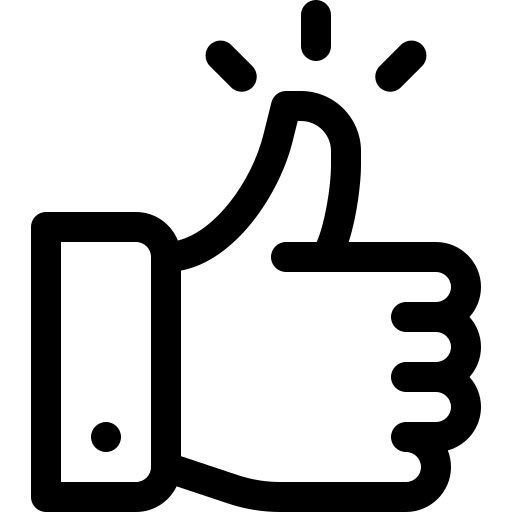
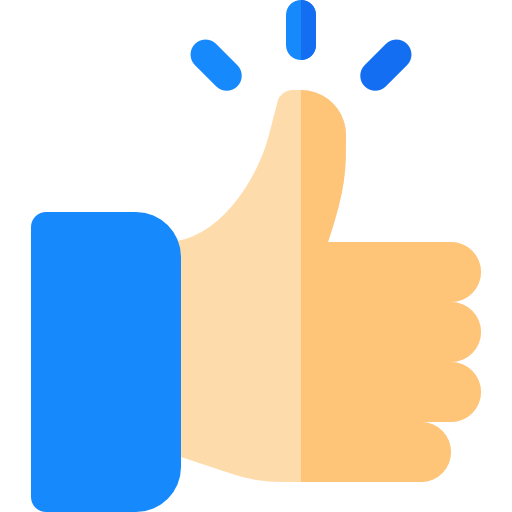
restyled like_comment page

diff --git a/simple_voting/templates/like_comment.html b/simple_voting/templates/like_comment.html
@@ -1,37 +1,48 @@
 {% extends 'base.html' %}
+{% load static %}
 {% block title %}
 <title>Comment </title>
 {% endblock %}
 {% block content %}
+
 <main>
-    <div class="row">
+    <div class="row text-center" style="margin: auto">
         <div class="col-6 text-center">
             {% if like_form %}
-            <form action="/like_comment/" method="post">
-                {% csrf_token %}
-                <div class="row  mt-3 text-middle">
-                    <div class="col-12">
-                        <h1>Comment this:</h1>
-                    </div>
-                    <div class="col-12 mt-3 w-50 h-50 pl-5 pr-5">
-                        {{ comment_form.comment }}
-                    </div>
+            <div class="card jumbotron mt-3 mb-3 border-success" style="width: 95%; margin: auto; border-radius: 8px">
+                <div class="card-body">
+                    <h2 class="card-title text-center">Comment this:</h2>
+                    <hr>
+                    <form action="/like_comment/" method="post">
+                        {% csrf_token %}
+                        <div class="row mt-3 text-middle">
+                            <div class="col-12">
+                                {{ comment_form.comment }}
+                            </div>
+                        </div>
+                        <div class="row mt-3" style="margin: auto; ">
+                            <div class="col-6 mt-3">
+                                <input type="submit" class="btn btn-outline-success btn-md btn-block" name="status" value="Send"
+                                       />
+                            </div>
+                            <div class="col-6 text-right" style="margin: auto">
+                                <form action="/like_comment/" method="post" id="liking_form">
+                                    {% csrf_token %}
+                                    {% if liked %}
+                                    <button type="submit" name="like" value="liked" id="like_btn" style="background: none; border: none">
+                                        <img src="{% static 'img/liked.png'%}" width="50" height="50px" id="like_img"/>
+                                    </button>
+                                    {% else %}
+                                    <button type="submit" name="like" value="not_liked" id="like_btn" style="background: none; border: none">
+                                        <img src="{% static 'img/not_liked.png'%}" width="50" height="50px" id="like_img"/>
+                                    </button>
+                                    {% endif %}
+                                </form>
+                            </div>
+                        </div>
+                    </form>
                 </div>
-
-
-                <div class="row mt-3 ">
-                    <div class="col-6  mt-1">
-                        {{like_form.like.label}}
-                        {{like_form.like}}
-                    </div>
-
-
-                    <div class="col-6">
-                        <input type="submit" class="btn btn-outline-success btn-md" name="status" value="Send"
-                               style="width: 100px; border-radius: 16px"/>
-                    </div>
-                </div>
-            </form>
+            </div>
             {% else %}
             <form action="/like_comment/" method="post">
                 {% csrf_token %}
@@ -46,26 +57,23 @@
             {% endif %}
         </div>
         {% if comments %}
-        <div class="col-6">
-            <div class="row mt-3 text-middle">
-                <div class="col-8 text-center">
-                    <h1>Comments:</h1>
-                </div>
-            </div>
+        <div class="col-6" >
             {% for comment in comments %}
-            <div class="row mt-3">
-                <div class="col-8 alert alert-info text-center" role="alert">
-                    <div class="row mb-3">
-                        <div class="col-6" style="border-bottom: 1px solid lightgray">
-                            <p>{{comment.author}}</p>
+            <div class="row mt-3 mr-3  border-success" style="padding: 0;">
+                <div class="col-12 alert alert-info text-center" role="alert" >
+                    <div class="card-body">
+                        <div class="row mb-3">
+                            <div class="col-6" style="border-bottom: 1px solid lightgray">
+                                <p>{{comment.author}}</p>
+                            </div>
+                            <div class="col-6" style="border-left:1px solid lightgray; border-bottom: 1px solid lightgray">
+                                <p>{{comment.created}}</p>
+                            </div>
                         </div>
-                        <div class="col-6" style="border-left:1px solid lightgray; border-bottom: 1px solid lightgray">
-                            <p>{{comment.created}}</p>
-                        </div>
-                    </div>
-                    <div class="row">
-                        <div class="col-12">
-                            <p class="text-break">{{comment.text}}</p>
+                        <div class="row">
+                            <div class="col-12">
+                                <p class="text-break">{{comment.text}}</p>
+                            </div>
                         </div>
                     </div>
                 </div>
@@ -75,4 +83,20 @@
         {% endif %}
     </div>
 </main>
+
+<script>
+    like_btn.addEventListener('click', function () {
+        if (like_btn.value == 'liked')
+        {
+            like_img.src = "{% static 'img/not_liked.png'%}";
+            like_btn.value = 'not_liked';
+        }
+        else
+        {
+            like_img.src = "{% static 'img/liked.png'%}";
+            like_btn.value = 'liked';
+        }
+    })
+</script>
+
 {% endblock %}

diff --git a/simple_voting/views.py b/simple_voting/views.py
@@ -227,6 +227,7 @@ def vote(request):
 @login_required()
 def like_comment(request):
     context = {}
+    voting_id = request.session.get('id_voting', None)
     if request.method == 'GET':
         context.update(csrf(request))
         context['like_form'] = LikeForm()
@@ -234,7 +235,16 @@ def like_comment(request):
         voting_id = request.GET.get('voting')
         request.session['id_voting'] = voting_id
         context['comments'] = Comment.objects.filter(voting=Voting.objects.get(id=voting_id))
-    voting_id = request.session.get('id_voting', None)
+        if voting_id:
+            is_liked = False
+            likes = Like.objects.filter(author=User.objects.get(id=request.user.id))
+            for like in likes:
+                if like.voting == Voting.objects.get(id=voting_id):
+                    is_liked = True
+                    break
+            # context['liked'] = SafeString(str(is_liked).lower())
+            context['liked'] = is_liked
+            context['voting_id'] = Voting.objects.get(id=voting_id)
     if request.method == 'POST' and voting_id:
         liked = request.POST.get('like')
         if liked:
@@ -254,7 +264,7 @@ def like_comment(request):
                 like_item.save()
             if already_like:
                 del_like.delete()
-        if len(request.POST.get('comment')) > 0:
+        if request.POST.get('comment'):
             text = request.POST.get('comment')
             comment_item = Comment(
                 text=text,
@@ -264,7 +274,7 @@ def like_comment(request):
             print("COMMENT")
             comment_item.save()
         clear_session(request)
-        return redirect('/available_voting')
+        return redirect('/like_comment/?voting={}'.format(voting_id))
     return render(request, 'like_comment.html', context)
 
 
